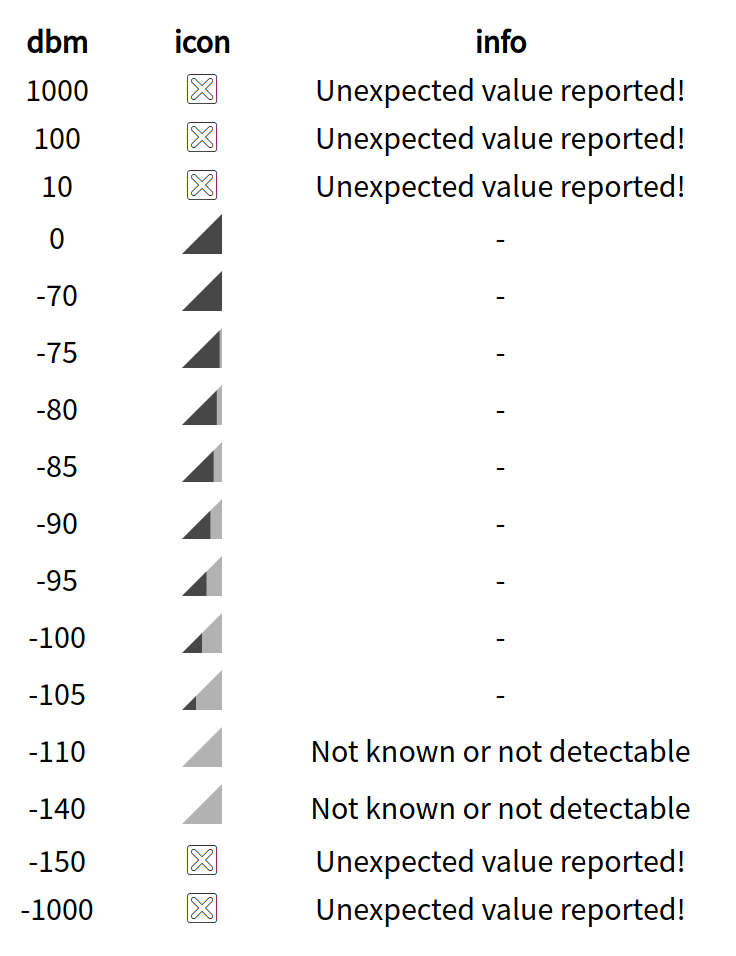
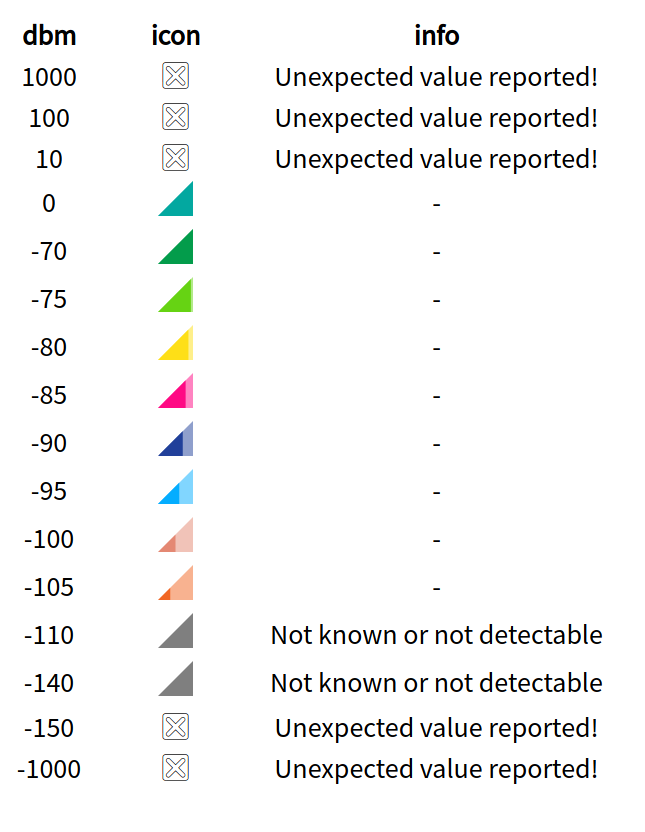
feat: support colors

diff --git a/src/RSRPBar.tsx b/src/RSRPBar.tsx
@@ -1,6 +1,10 @@
 import React from 'react'
 
-export const RSRPBar = ({ quality, ...props }: { quality: number }) => {
+export const RSRPBar = ({
+	quality,
+	bgOpacity,
+	...props
+}: { quality: number; bgOpacity?: number } & { [x: string]: any }) => {
 	// Calculate the size of the triangle base on the relative area.
 	// The resulting triangle should have the area respective to its quality,
 	// instead of only having the width/height.
@@ -14,21 +18,23 @@ export const RSRPBar = ({ quality, ...props }: { quality: number }) => {
 			height="100px"
 			width="100px"
 			aria-label={`${Math.round(quality * 100)}%`}
-			{...props}
+			{...{
+				color: 'black',
+				...props,
+			}}
 		>
 			<g>
 				<path
 					d="M 100,0 V 100 H 0 Z"
 					style={{
-						fill: '#000000',
-						fillOpacity: 0.3,
+						fill: 'currentColor',
+						fillOpacity: bgOpacity || 0.5,
 					}}
 				/>
 				<path
 					d={`M 0,100 l ${Math.round(d * 100)},0 l 0,-${Math.round(d * 100)} Z`}
 					style={{
-						fill: '#000000',
-						fillOpacity: 0.6,
+						fill: 'currentColor',
 					}}
 				/>
 			</g>

diff --git a/src/demo.tsx b/src/demo.tsx
@@ -4,6 +4,29 @@ import { RSRP } from './RSRP'
 import { RSRPBar } from './RSRPBar'
 import { dbmToRSRP } from './dbmToRSRP'
 
+const colors = [
+	'#03a8a0',
+	'#039c4b',
+	'#66d313',
+	'#fedf17',
+	'#ff0984',
+	'#21409a',
+	'#04adff',
+	'#e48873',
+	'#f16623',
+	'#f44546',
+]
+
+const color = function*() {
+	let i = 0
+	while (true) {
+		yield colors[i]
+		i = (i + 1) % colors.length
+	}
+}
+
+const colorGenerator = color()
+
 const renderForDBM = (dbm: number) => (
 	<RSRP
 		rsrp={dbmToRSRP(dbm)}
@@ -18,7 +41,12 @@ const renderForDBM = (dbm: number) => (
 			) : (
 				<>
 					<td>
-						<RSRPBar quality={quality} />
+						<RSRPBar
+							quality={quality}
+							style={{
+								color: colorGenerator.next().value,
+							}}
+						/>
 					</td>
 					<td>-</td>
 				</>
